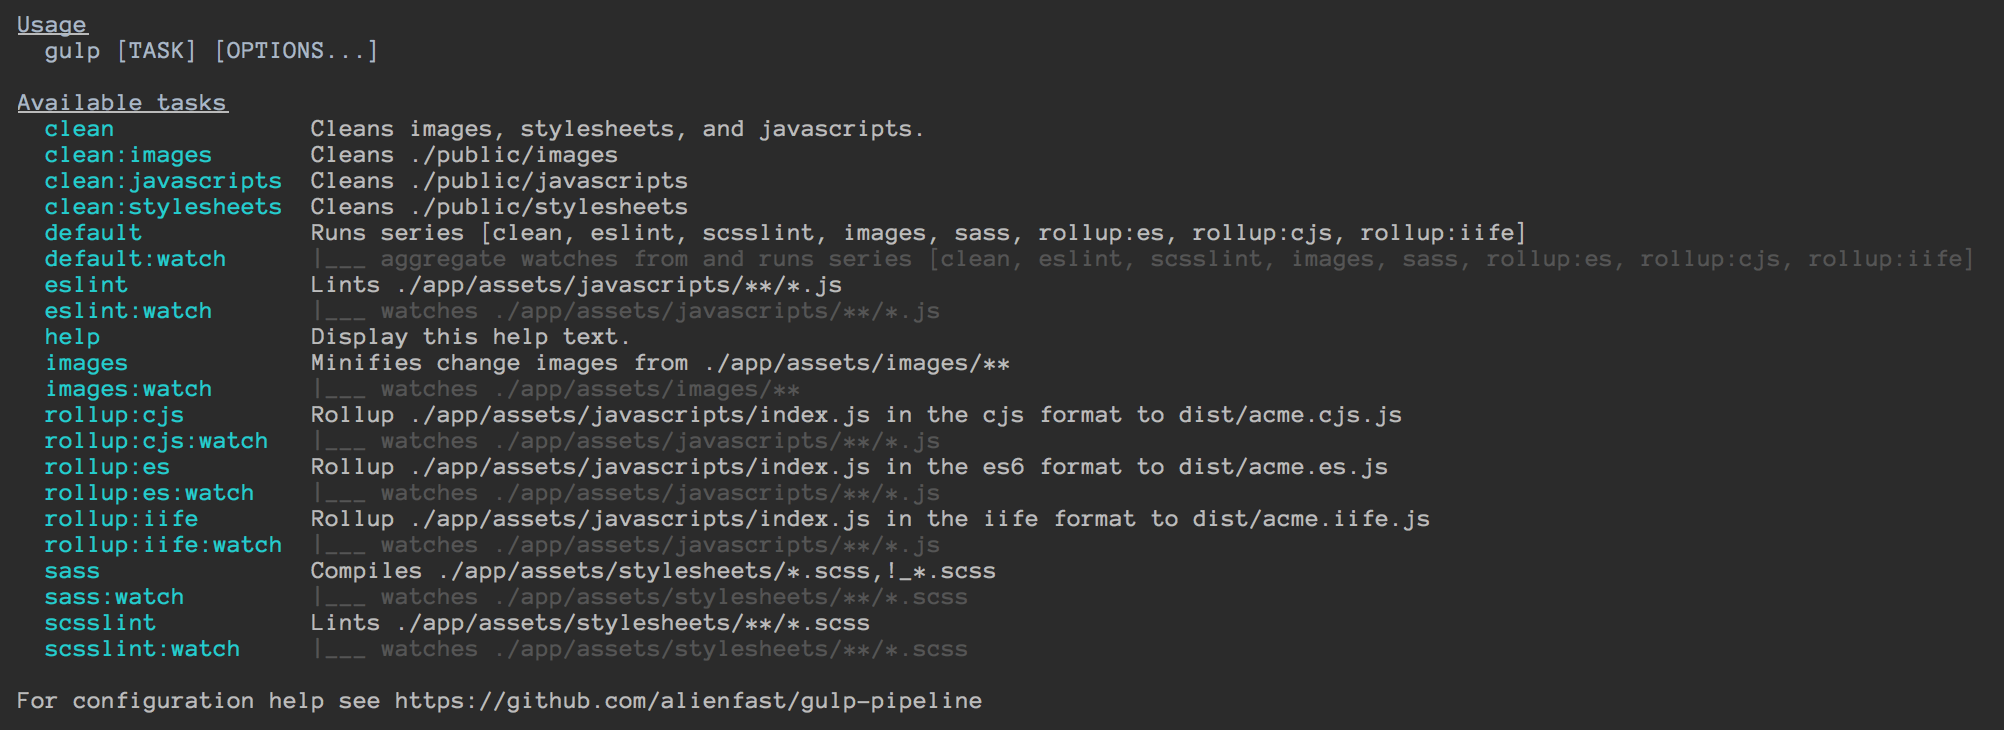
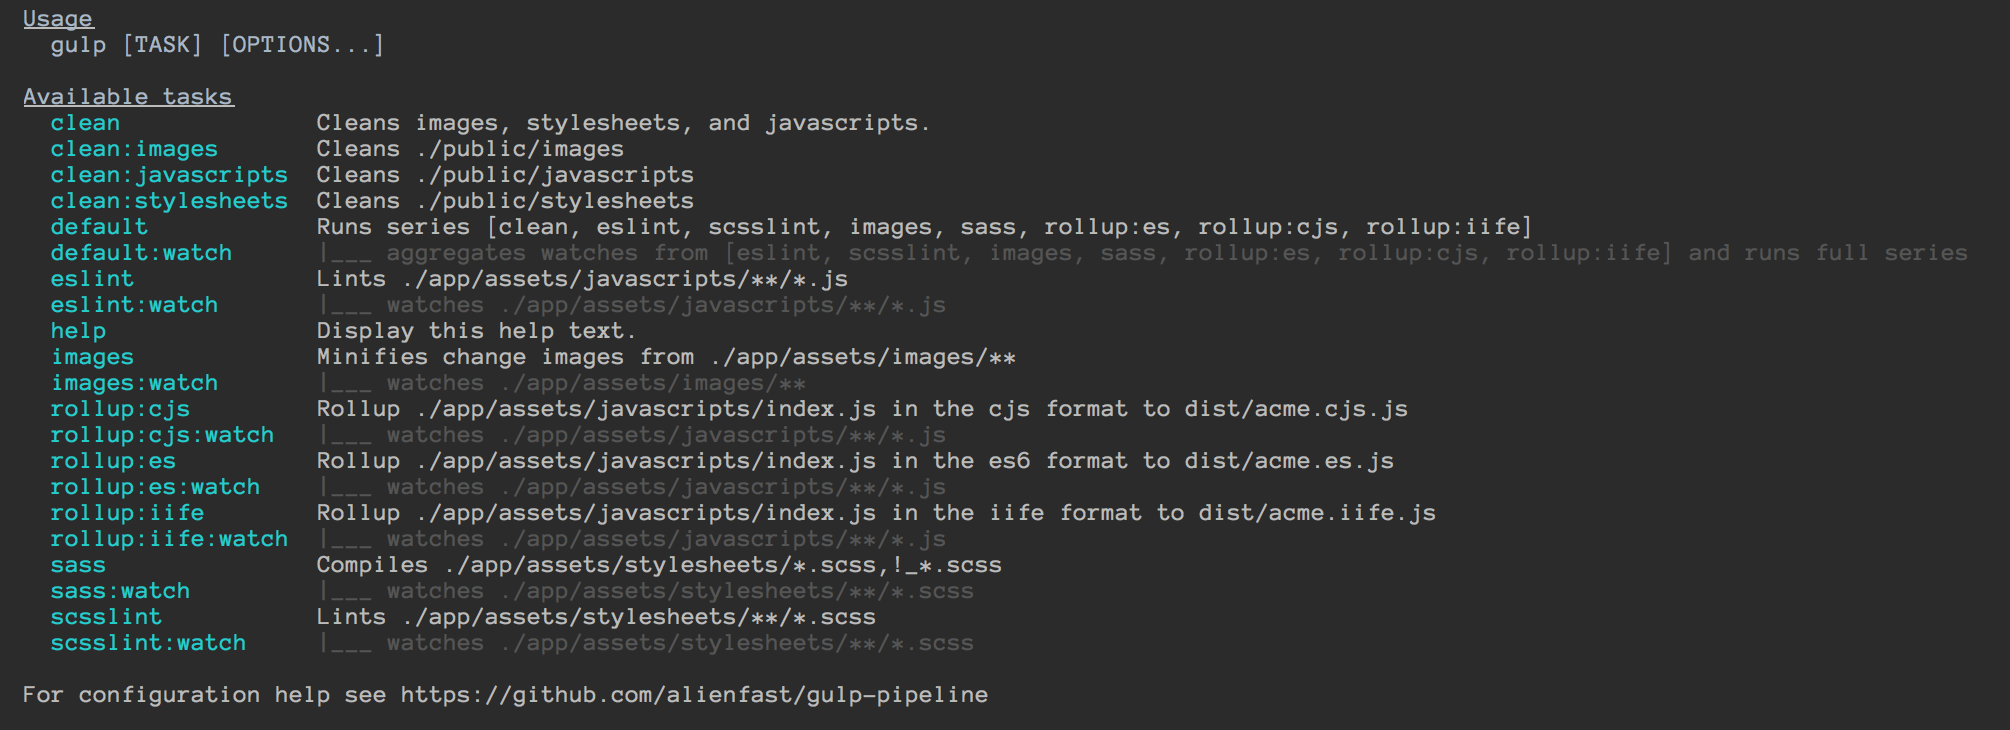
change series watch help text

Changed region(s): [[0.0, 0.1205, 0.99, 0.9041], [0.0, 0.9342, 0.495, 0.9945], [0.0, 0.0, 0.1856, 0.0904]]

diff --git a/src/taskSeries.js b/src/taskSeries.js
@@ -31,12 +31,19 @@ const TaskSeries = class extends Base {
     }, [])
 
     // use the config to generate the dynamic help
-    return `uns series [${taskNames.join(', ')}]`
+    return `Runs series [${taskNames.join(', ')}]`
+  }
+  createWatchHelpText(){
+    let taskNames = this.watchableRecipes().reduce((a, b) => {
+      return a.concat(b.taskName());
+    }, [])
+
+    return Util.colors.grey(`|___ aggregates watches from [${taskNames.join(', ')}] and runs full series`)
   }
 
   registerTask(taskName) {
     this.debug(`Registering task: ${Util.colors.green(taskName)} for ${stringify(this.toTaskNames(this.recipes))}`)
-    this.gulp.task(taskName, `R${this.createHelpText()}`, () => {
+    this.gulp.task(taskName, this.createHelpText(), () => {
       return this.run(this.recipes)
     })
   }
@@ -53,12 +60,13 @@ const TaskSeries = class extends Base {
         watchableRecipes.push(recipe)
       }
     }
+    return watchableRecipes
   }
 
   registerWatchTask(taskName, recipes) {
     // generate watch task
     this.debug(`Registering task: ${Util.colors.green(taskName)}`)
-    this.gulp.task(taskName, Util.colors.grey(`|___ aggregate watches from and r${this.createHelpText()}`), () => {
+    this.gulp.task(taskName, this.createWatchHelpText(), () => {
 
       // watch the watchable recipes and make them #run the series
       for(let recipe of this.watchableRecipes()){
